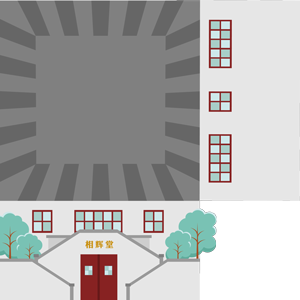
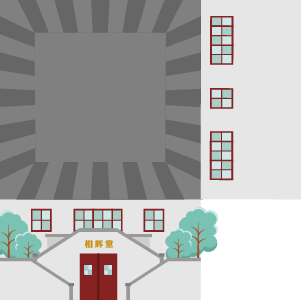
增加建筑

diff --git a/jump/js/game.js b/jump/js/game.js
@@ -67,6 +67,10 @@ var Game = function() {
       {"title":"老校门","img":"./imgs/lxm_2.png","floor":2, medal: "./imgs/medals/lxm_2.jpg"},
       {"title":"新校门","img":"./imgs/xxm_2.png","floor":2, medal: "./imgs/medals/xxm_2.jpg"},
       {"title":"相辉堂","img":"./imgs/xht_2.png","floor":2, medal: "./imgs/medals/xht_2.jpg"},
+      {"title":"逸夫科技楼","img":"./imgs/yfkj_2.png","floor":2, medal: "./imgs/medals/yfkj_2.jpg"},
+      {"title":"逸夫科技楼","img":"./imgs/zjtsg_2.png","floor":2, medal: "./imgs/medals/zjtsg_2.jpg"},
+      {"title":"理科图书馆","img":"./imgs/lt_3.png","floor":3, medal: "./imgs/medals/lt_3.jpg"},
+      {"title":"文科图书馆","img":"./imgs/wt_3.png","floor":3, medal: "./imgs/medals/wt_3.jpg"},
       {"title":"第一教学楼","img":"./imgs/tb1_4.png","floor":4, medal: "./imgs/medals/tb1_4.jpg"},
       {"title":"第二教学楼","img":"./imgs/tb2_4.png","floor":4, medal: "./imgs/medals/tb2_4.jpg"},
       {"title":"第三教学楼","img":"./imgs/tb3_4.png","floor":4, medal: "./imgs/medals/tb3_4.jpg"},
